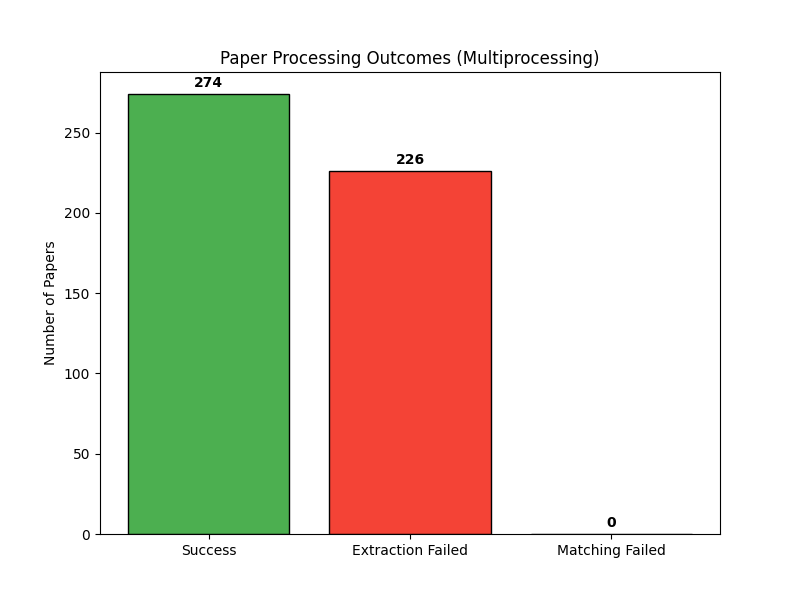
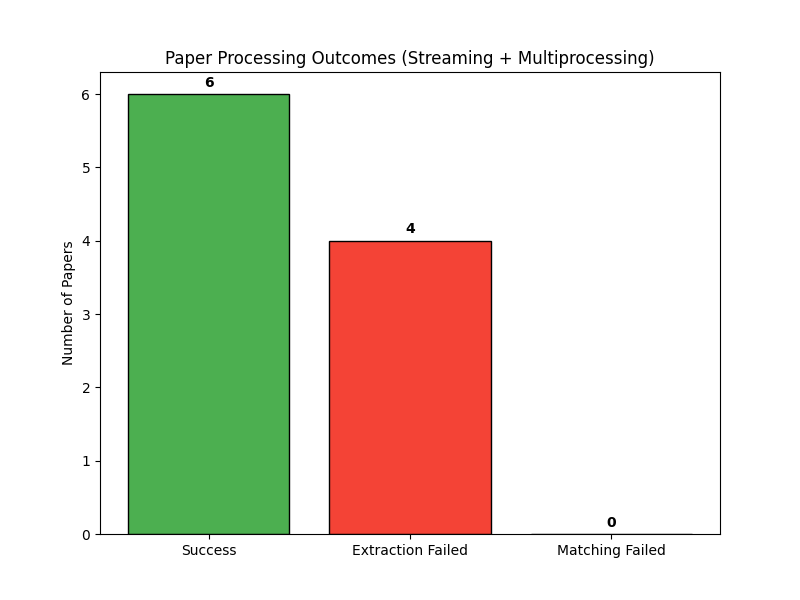
prompt versuch

diff --git a/src/pipeline_parquet.py b/src/pipeline_parquet.py
@@ -1,10 +1,14 @@
-import pandas as pd
 import json
 import logging
 from pathlib import Path
 # Used to convert Python objects → string
 import jsonpickle
 import ai_fallback
+
+# new approach
+import polars as pl
+import pyarrow.parquet as pq
+import pyarrow as pa
 
 import time
 import matplotlib.pyplot as plt
@@ -56,10 +60,68 @@ def parse_metadata(json_str: str, arxiv_id: str) -> ArxivMetadata:
         logger.warning(f"Metadata parsing issue for {arxiv_id}: {e}")
         return None
 
-
-
 def process_single_paper(row, ror_orgs, ror_orgs_dict):
-    """Handles the processing for a single row to be run in a separate process."""
+        """Handles the processing for a single row to be run in a separate process."""
+
+        paper_start_time = time.perf_counter()
+
+        # Safely get the ID so we can log it if something fails
+        paper_id = row.get('id', 'Unknown')
+
+        extracted_result = None
+        matched_result = None
+        status = "extraction_failed"
+
+        try:
+            # extract data from row
+            full_latex_text = row['text']
+            metadata_raw = row['metadata']
+
+            # parse the metadata
+            meta_obj = parse_metadata(metadata_raw, paper_id)
+
+            # extract latex commands
+            ext_cmds = extract_cmds.extract_cmds_from_string(full_latex_text)
+
+            # extract author and affiliations (Traditional method)
+            ext_info = extract_author_aff.extract_affiliations_from_obj(ext_cmds, meta_obj)
+
+
+            # THE AI FALLBACK
+            # If traditional extraction fails (returns None or empty), we send it to the AI
+            if not ext_info:
+                logger.info(f"Traditional extraction failed for {paper_id}. Switching to AI Fallback...")
+                ext_info = ai_fallback.extract_with_ollama(full_latex_text, meta_obj)
+
+
+            if ext_info:
+                # convert to json
+                extracted_result = jsonpickle.encode(ext_info)
+
+                # match org against ROR dataset
+                final_data = match_data.match_and_resolve_single_paper(
+                    meta_obj, ext_info, ror_orgs, ror_orgs_dict
+                )
+
+                if final_data:
+                    matched_result = jsonpickle.encode(final_data)
+                    status = "success"
+                else:
+                    status = "matching_failed"
+
+        except Exception as e:
+            # Catches any unexpected errors (like the StopIteration) so the pipeline doesn't crash
+            logger.error(f"Failed processing paper {paper_id}: {e}")
+            status = "pipeline_error"
+
+        paper_end_time = time.perf_counter()
+        duration = paper_end_time - paper_start_time
+
+        return extracted_result, matched_result, status, duration
+
+
+"""def process_single_paper(row, ror_orgs, ror_orgs_dict):
+    Handles the processing for a single row to be run in a separate process.
     paper_start_time = time.perf_counter()
 
     # extract data from row
@@ -76,9 +138,9 @@ def process_single_paper(row, ror_orgs, ror_orgs_dict):
 
     # the AI fallback
 
-    """if ext_info is None:
+    if ext_info is None:
      logger.info(f"Traditional extraction failed for {paper_id}. Switching to AI Fallback...")
-     ext_info = ai_fallback.extract_with_ollama(full_latex_text, meta_obj)"""
+     ext_info = ai_fallback.extract_with_ollama(full_latex_text, meta_obj)
 
 
     extracted_result = None
@@ -103,7 +165,7 @@ def process_single_paper(row, ror_orgs, ror_orgs_dict):
     paper_end_time = time.perf_counter()
     duration = paper_end_time - paper_start_time
 
-    return extracted_result, matched_result, status, duration
+    return extracted_result, matched_result, status, duration"""
 
 
 def main():
@@ -119,48 +181,78 @@ def main():
     ror_orgs = match_data._process_ror_orgs(ror_dataset)
     ror_orgs_dict = match_data._process_ror_orgs_to_dict(ror_dataset)
 
-    logger.info(f"Step 2: Loading Input Parquet {INPUT_FILE}...")
-    # Loads file into pandas dataframe
-    df = pd.read_parquet(INPUT_FILE)
-    rows = df.to_dict("records")
-
-    # prepare the storage variables
-    extracted_results_column = []
-    matched_results_column = []
-    paper_processing_times = []
-
-    success_count = 0
-    extraction_failed_count = 0
-    matching_failed_count = 0
-
-    # the most important step
-    logger.info("Step 3: Processing papers with Multiprocessing...")
-    processing_start_time = time.time()
+    logger.info(f"Step 2: Preparing to stream Input Parquet {INPUT_FILE}...")
 
     # Create a partial function with the ROR data permanently attached to it
     worker_func = partial(process_single_paper, ror_orgs=ror_orgs, ror_orgs_dict=ror_orgs_dict)
 
+    MAX_CORES = 7
+    BATCH_SIZE = 5000  # Number of rows to load into RAM at a time
 
-    MAX_CORES = 4
+    # Diagnostics tracking
+    success_count = 0
+    extraction_failed_count = 0
+    matching_failed_count = 0
+    paper_processing_times = []
 
+    logger.info("Step 3: Processing papers in streams with Multiprocessing...")
+    processing_start_time = time.time()
 
-    # Creates 4 parallel workers and Process papers in parallel
-    # chunksize = total_tasks / (cores × 4)   = 500 / (4 * 4 )
+    # Open the large parquet file for streaming reads
+    parquet_file = pq.ParquetFile(INPUT_FILE)
+    parquet_writer = None
+
+    # ProcessPoolExecutor keeps the cores busy
     with concurrent.futures.ProcessPoolExecutor(max_workers=MAX_CORES) as executor:
-        results = list(executor.map(worker_func, rows, chunksize=30))
 
-    # Unpack the results
-    for ext_res, match_res, status, duration in results:
-        extracted_results_column.append(ext_res)
-        matched_results_column.append(match_res)
-        paper_processing_times.append(duration)
+        # iter_batches() streams the file in chunks without loading everything into memory
+        for batch in parquet_file.iter_batches(batch_size=BATCH_SIZE):
 
-        if status == "success":
-            success_count += 1
-        elif status == "matching_failed":
-            matching_failed_count += 1
-        else:
-            extraction_failed_count += 1
+            # Convert PyArrow batch to Polars DataFrame, then to dicts
+            df_batch = pl.from_arrow(batch)
+            rows = df_batch.to_dicts()
+
+            # Execute the batch in parallel
+            # While one row waits for AI, another core picks up the next row for extraction
+            results = list(executor.map(worker_func, rows, chunksize=150))
+
+            # Prepare columns for the results
+            extracted_results_column = []
+            matched_results_column = []
+
+            # Unpack the results
+            for ext_res, match_res, status, duration in results:
+                extracted_results_column.append(ext_res)
+                matched_results_column.append(match_res)
+                paper_processing_times.append(duration)
+
+                if status == "success":
+                    success_count += 1
+                elif status == "matching_failed":
+                    matching_failed_count += 1
+                else:
+                    extraction_failed_count += 1
+
+            # Append the new results as columns to the current batch
+            df_batch = df_batch.with_columns([
+                pl.Series("extracted_info", extracted_results_column),
+                pl.Series("matched_info", matched_results_column)
+            ])
+
+            # Convert back to PyArrow table for writing
+            result_table = df_batch.to_arrow()
+
+            # Write the batch directly to the output Parquet file
+            if parquet_writer is None:
+                # Initialize the writer with the schema of the first fully processed batch
+                parquet_writer = pq.ParquetWriter(OUTPUT_FILE, result_table.schema)
+
+            parquet_writer.write_table(result_table)
+            logger.info(f"Successfully processed and wrote a batch of {len(rows)} rows.")
+
+    # Close the writer once all streaming is done
+    if parquet_writer:
+        parquet_writer.close()
 
     processing_end_time = time.time()
     processing_time = processing_end_time - processing_start_time
@@ -173,7 +265,7 @@ def main():
 
     plt.figure(figsize=(10, 6))
     plt.hist(paper_processing_times, bins=50, color='skyblue', edgecolor='black')
-    plt.title('Distribution of Processing Times per Paper (Multiprocessing)')
+    plt.title('Distribution of Processing Times per Paper (Streaming + Multiprocessing)')
     plt.xlabel('Processing Time (seconds)')
     plt.ylabel('Number of Papers')
     plt.grid(axis='y', alpha=0.75)
@@ -185,7 +277,7 @@ def main():
 
     plt.figure(figsize=(8, 6))
     bars = plt.bar(categories, counts, color=['#4CAF50', '#F44336', '#FF9800'], edgecolor='black')
-    plt.title('Paper Processing Outcomes (Multiprocessing)')
+    plt.title('Paper Processing Outcomes (Streaming + Multiprocessing)')
     plt.ylabel('Number of Papers')
     for bar in bars:
         yval = bar.get_height()
@@ -195,12 +287,7 @@ def main():
     plt.close()
     # ----------------------------
 
-    logger.info("Step 4: Saving results...")
-    df['extracted_info'] = extracted_results_column
-    df['matched_info'] = matched_results_column
-    df.to_parquet(OUTPUT_FILE)
-
-    logger.info(f"Success! Output saved to {OUTPUT_FILE}")
+    logger.info(f"Success! Final streamed output saved to {OUTPUT_FILE}")
 
     total_end_time = time.time()
     total_time = total_end_time - total_start_time

diff --git a/src/ai_fallback.py b/src/ai_fallback.py
@@ -17,6 +17,23 @@ class AuthorModel(BaseModel):
 class ExtractionResponse(BaseModel):
     authors: List[AuthorModel]
 
+def get_latex_preamble(text_content: str) -> str:
+        """
+        Extracts everything before \begin{document} or the main content.
+        This guarantees we capture authors/affiliations without the massive paper body.
+        """
+        # Look for common start markers of the actual paper
+        match = re.search(r'\\begin\{document\}|\\maketitle|\\begin\{abstract\}', text_content)
+
+        if match:
+            preamble = text_content[:match.start()]
+            # Fallback to character limit if the preamble is inexplicably huge
+            return preamble[:8000]
+
+            # If no document start is found, fall back to character truncation
+        return text_content[:8000]
+
+
 # text_content: str =  input
 # ExtAuthorInfo = output
 def extract_with_ollama(text_content: str, arxiv_metadata, model_name: str = "gemma3:1b") -> ExtAuthorInfo:
@@ -28,7 +45,7 @@ def extract_with_ollama(text_content: str, arxiv_metadata, model_name: str = "ge
 
     # Setting a length limit for the prompt ( authors are usually at the top )
     # where in latex files could find the part that we need ( it ques here try another method)
-    text_input = text_content[:12000]
+    text_input = get_latex_preamble(text_content)
 
     try:
         response = ollama.chat(
@@ -37,13 +54,41 @@ def extract_with_ollama(text_content: str, arxiv_metadata, model_name: str = "ge
                 {
                     'role': 'system',
                     'content': (
-                        # take a look Language Models are Few-Shot Learners
-                        # example ( snippet ) and give also the output
-                        # try different snippet
-                        # feed mt pydantic model to the prompt
-                        "You are a precise data extraction assistant. "
-                        "Extract all authors and their affiliations from the provided LaTeX text. "
-                        "Respond ONLY with the JSON format requested."
+                        f"""You are a precise data extraction assistant.
+        Your task is to extract all authors and their specific affiliations from the provided LaTeX text.
+
+        You must return the data strictly adhering to the following JSON schema:
+        {ExtractionResponse.model_json_schema()}  
+
+        
+        INPUT:
+        \\author{{Alice Smith$^{{1,2}}$ and Bob Jones$^{{2}}$}}
+        \\affiliation{{$^{{1}}$Department of Physics, MIT}}
+        \\affiliation{{$^{{2}}$CERN, Geneva, Switzerland}}
+
+        EXPECTED OUTPUT:
+        {{
+          "authors": [
+            {{
+              "name": "Alice Smith",
+              "affiliations": [
+                "Department of Physics, MIT", 
+                "CERN, Geneva, Switzerland"
+              ]
+            }},
+            {{
+              "name": "Bob Jones",
+              "affiliations": [
+                "CERN, Geneva, Switzerland"
+              ]
+            }}
+          ]
+        }}
+        
+
+        Analyze the user's LaTeX input and respond ONLY with the valid JSON matching the schema. Do not include markdown blocks or conversational text.
+        """
+
                     )
                 },
                 {
@@ -73,12 +118,14 @@ def extract_with_ollama(text_content: str, arxiv_metadata, model_name: str = "ge
         _logger.error(f"Ollama extraction failed: {e}")
 
     return None
+
+
 # resume logic because it will take 3.3 day to process the whole 12 GB , after 6 days
 # smaller context windows
 # less token pass it ( use the right tokenizer )
 # Mistral
-# manually inspect the sucees rate
+# manually inspect the sucess rate
 # see the time for every row
-# generate a new new parquet file that see the average time
+# generate a new parquet file that see the average time
 # try different prompt
 # imaginary

diff --git a/src/definition/single_cmd_scheme/rrauthor.py b/src/definition/single_cmd_scheme/rrauthor.py
@@ -112,7 +112,13 @@ class RrAuthorThanksRef(SingleCmdScheme):
             if m := regex.search(reg_exp.THANKSREF_CONTENT, part):
                 ref_id = m.group("cnt")[1:-1]
                 name = cmd_util.sanitize(part.replace(m.group(0), ""))
-                affiliation = next(a for a in affiliations if a[0] == ref_id)[1]
+                #affiliation = next(a for a in affiliations if a[0] == ref_id)[1]
+                matched_affil = next((a for a in affiliations if a[0] == ref_id), None)
+
+                if matched_affil:
+                    affiliation = matched_affil[1]
+                else:
+                    affiliation = "Unknown Affiliation"  # or None, depending on what your code expects
                 author_aff.append(Author(name, [cmd_util.sanitize(affiliation)]))
             else:
                 # part should be only the name now -> default to INRIA affiliation
